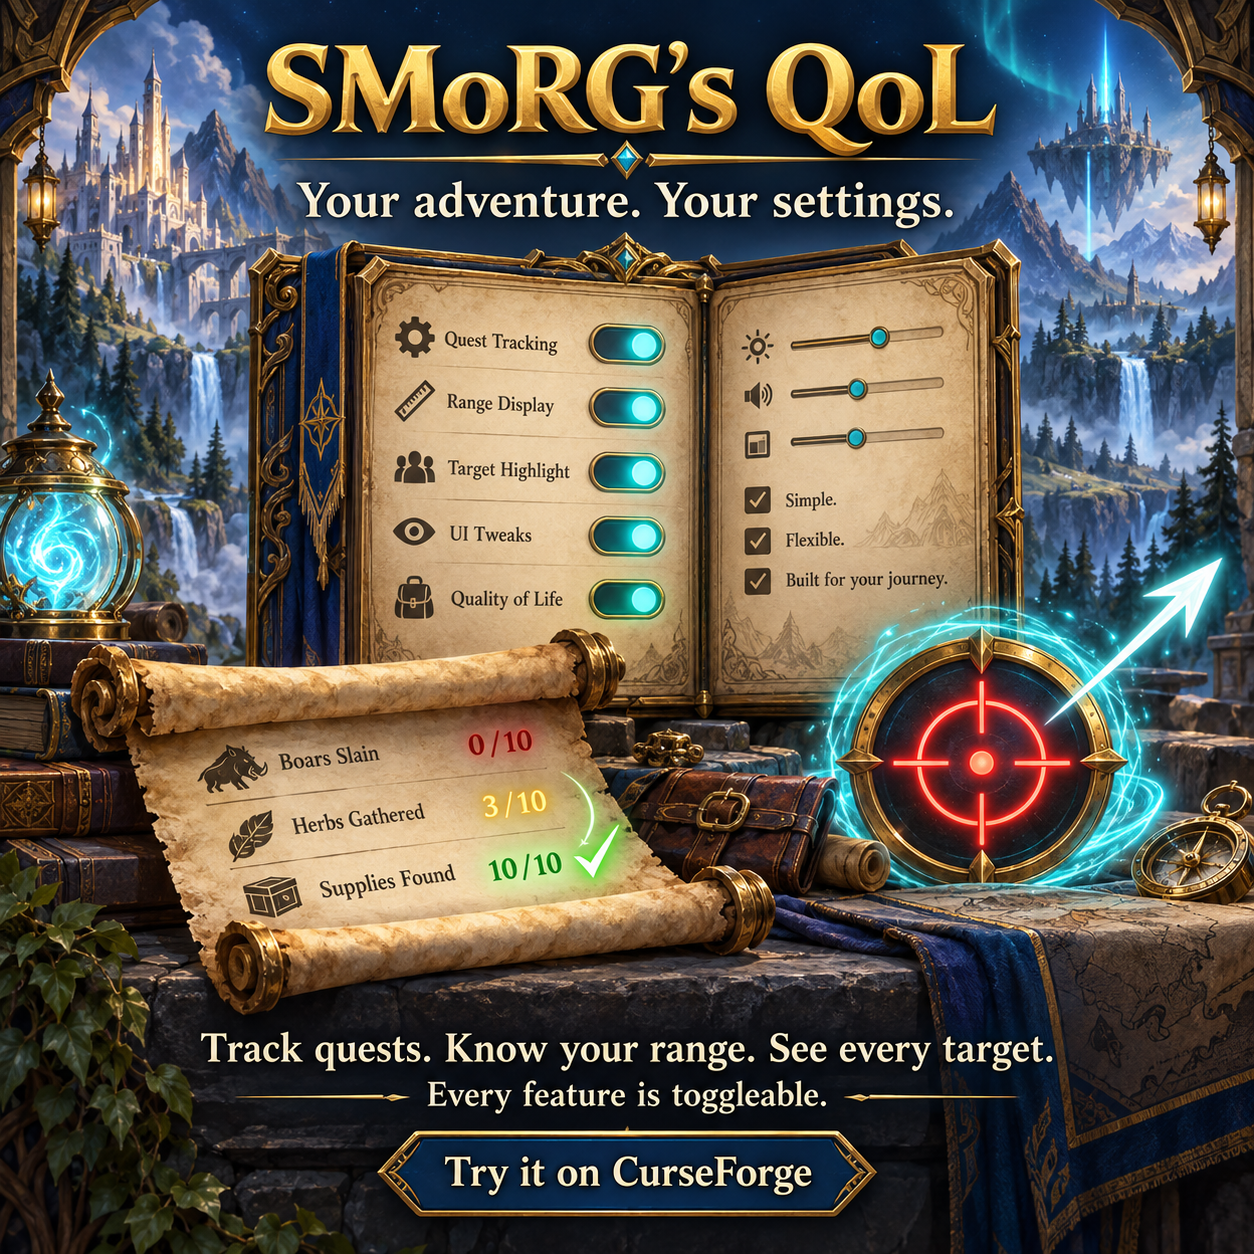
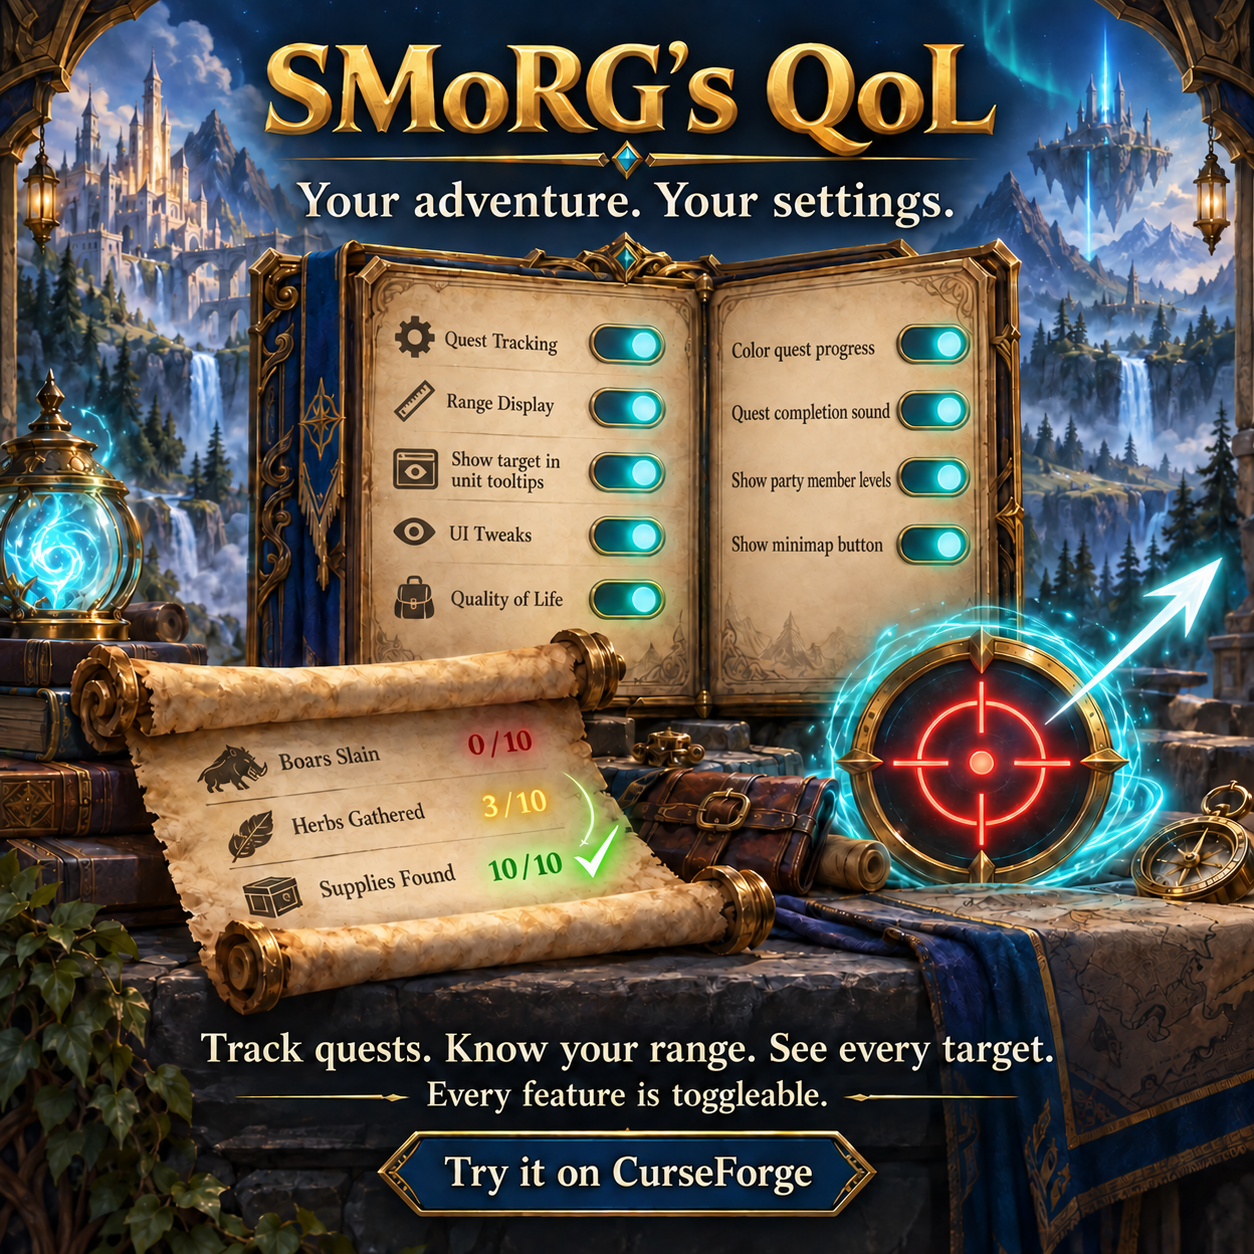
Add CurseForge gallery and update social image
Eight 1920x1080 gallery slides for the 1.1.0 features, drawn over the
blurred promo banner with gold frames and English captions:
options window, quest progress, range, tooltip target, item level and
speed, XP and reputation, group tools and WoW Forever.

output/gallery also holds the source screenshots, build-gallery.ps1 to
render the slides again, and gallery.md with the title and description
to paste for each image on CurseForge.

The social image now lists real option names in the settings book.

diff --git a/output/gallery/gallery.md b/output/gallery/gallery.md
@@ -1,0 +1,60 @@
+# CurseForge gallery
+
+Images for the project gallery on CurseForge, in upload order. Upload them in
+the CurseForge author portal (project > Images) and paste the title and
+description for each. Rebuild the slides with `build-gallery.ps1` (see its
+header); the source screenshots are in `screenshots/`.
+
+## 0. ../promo/smorgsqol-banner.png
+
+**Title:** SMoRG's QoL
+
+**Description:** Small tweaks for a smoother World of Warcraft, for Retail and WoW Forever. Every feature can be turned on or off.
+
+## 1. 01-options-window.png
+
+**Title:** Every setting in one window
+
+**Description:** All options in one window, grouped into Quests, Character, Reputation & XP, Group, Interface and Advanced. Open it from Bazooka, Titan Panel and other LibDataBroker displays, the addon compartment, the optional minimap button or /sqol config. Changes apply immediately.
+
+## 2. 02-quest-progress.png
+
+**Title:** Quest progress at a glance
+
+**Description:** Objective counts in the tracker turn from red to green, for quests, campaign quests, world quests and bonus objectives, and progress messages are colored the same way.
+
+## 3. 03-range.png
+
+**Title:** Know your range
+
+**Description:** The distance to your target in yards, shown on its nameplate, with an icon when none of the offensive abilities on your action bars can reach it. Quest objective counts sit just above the name.
+
+## 4. 04-tooltip-target.png
+
+**Title:** See who they target
+
+**Description:** Unit tooltips get a Target line: class-colored for players, reaction-colored for NPCs, and a red "You" when the unit is targeting you. It updates while you hover.
+
+## 5. 05-player-stats.png
+
+**Title:** Item level and speed
+
+**Description:** Your equipped item level and movement speed on the player frame, each with its own toggle. Placed above your name on Retail and below the bars on WoW Forever.
+
+## 6. 06-xp-reputation.png
+
+**Title:** XP and reputation, colored
+
+**Description:** The current XP and reputation values change from red to green, and reputation also shows the percentage left and your standing. Optional floating reputation gains and a custom combat text font.
+
+## 7. 07-group.png
+
+**Title:** Ready for the group
+
+**Description:** A countdown on queue pops and ready checks, and each party member's level on the party frames.
+
+## 8. 08-wow-forever.png
+
+**Title:** Also in WoW Forever
+
+**Description:** The same features in WoW Forever, placed to fit its interface.
